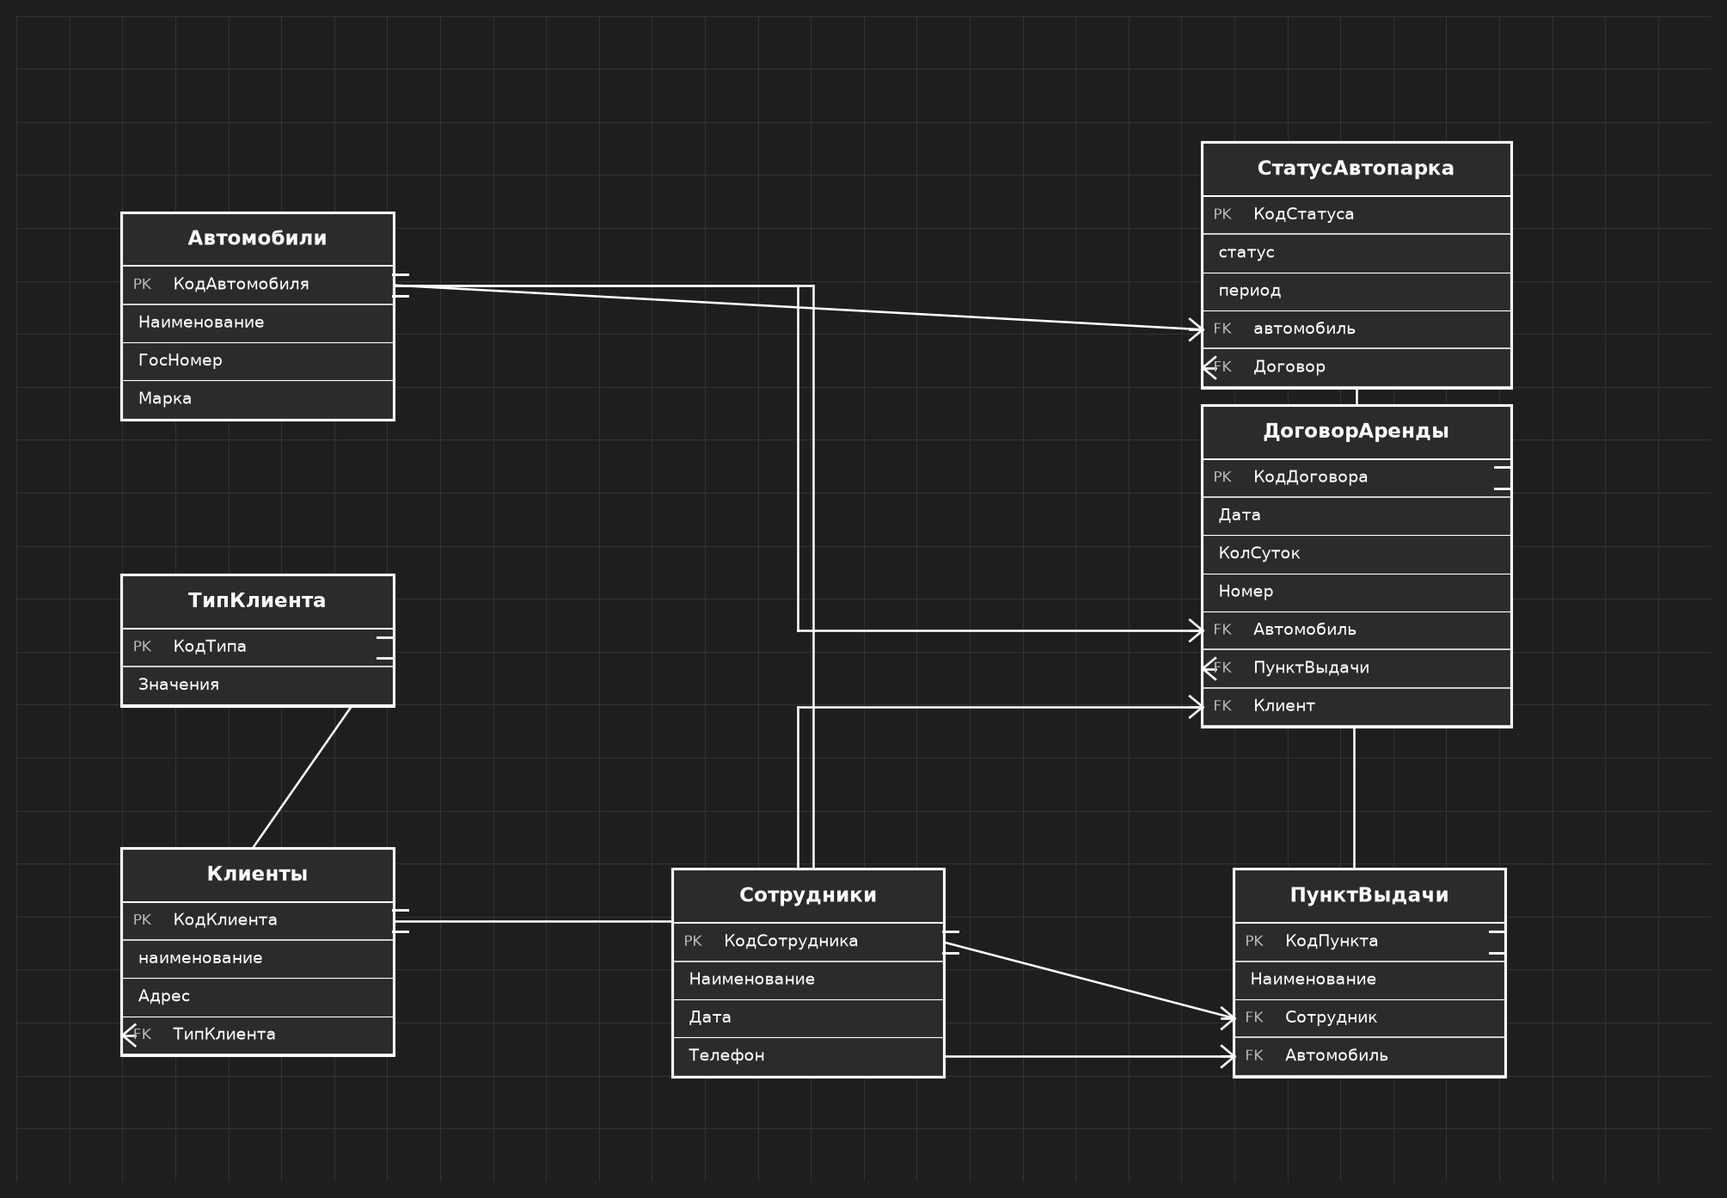
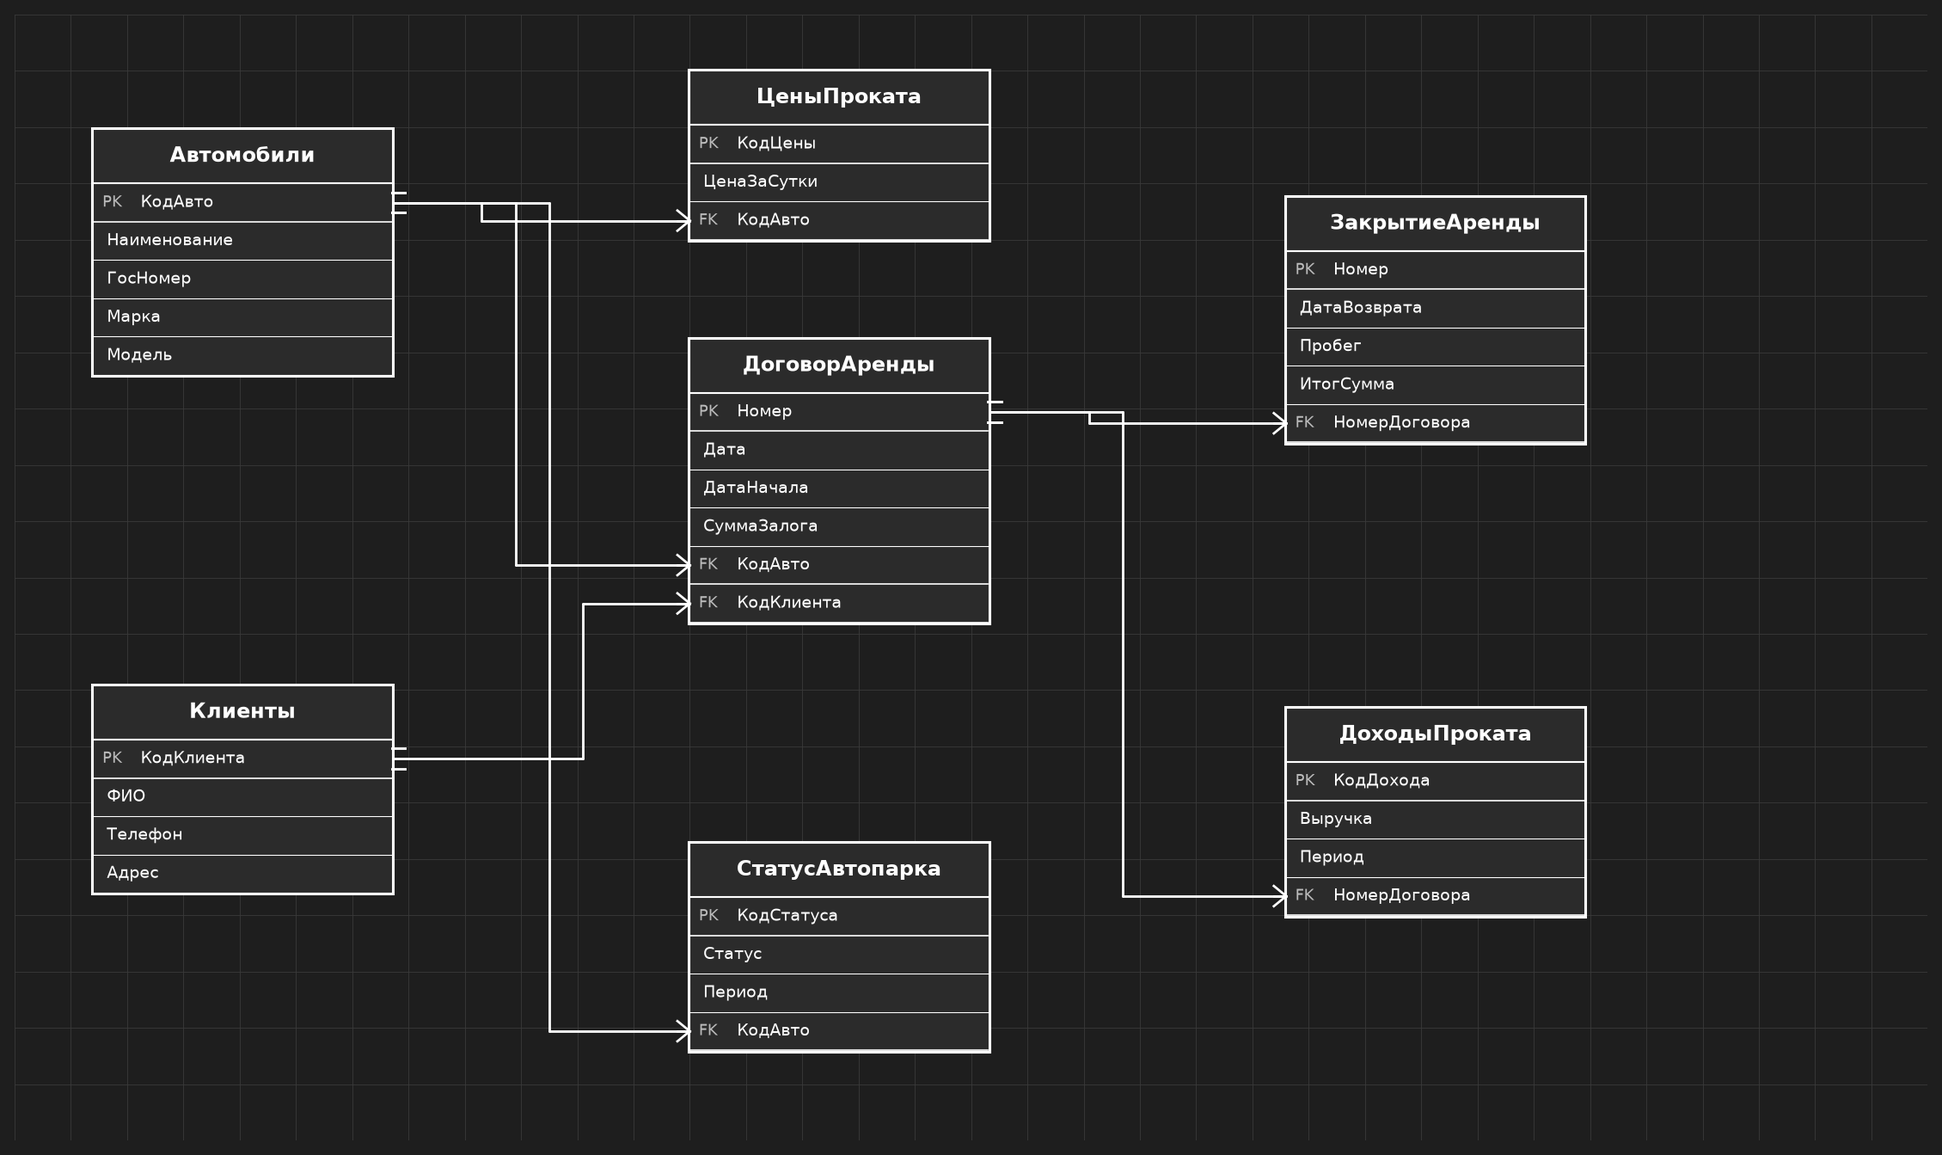
Переделать ER и Use Case: ортогональные связи PK→FK, шины акторов

diff --git a/diagrams/draw_diagrams.py b/diagrams/draw_diagrams.py
@@ -1,6 +1,6 @@
 #!/usr/bin/env python3
 # -*- coding: utf-8 -*-
-"""Аккуратные ER и Use Case: связи PK→FK, ортогональные линии."""
+"""Аккуратные ER и Use Case: связи строго PK→FK, ортогональные линии."""
 
 import matplotlib.pyplot as plt
 import matplotlib.patches as mpatches
@@ -16,8 +16,8 @@ BOX_FILL = '#2b2b2b'
 BOX_EDGE = '#ffffff'
 TEXT = '#ffffff'
 LINE = '#ffffff'
-ROW_H = 0.36
-HEADER_H = 0.5
+ROW_H = 0.34
+HEADER_H = 0.48
 
 
 def draw_grid(ax, xlim, ylim, step=0.5):
@@ -33,42 +33,40 @@ def draw_grid(ax, xlim, ylim, step=0.5):
 
 
 def er_table(ax, x, y, w, title, pk_name, attrs, fks):
-    """Таблица с точками привязки PK (справа) и каждого FK (слева)."""
-    rows = 1 + len(attrs) + len(fks)  # PK + attrs + FKs
+    rows = 1 + len(attrs) + len(fks)
     h = HEADER_H + rows * ROW_H
     ax.add_patch(FancyBboxPatch(
         (x, y), w, h, boxstyle='square,pad=0.01',
-        facecolor=BOX_FILL, edgecolor=BOX_EDGE, linewidth=1.4, zorder=2))
+        facecolor=BOX_FILL, edgecolor=BOX_EDGE, linewidth=1.3, zorder=2))
 
-    # заголовок
     ty = y + h - HEADER_H
     ax.plot([x, x + w], [ty, ty], color=BOX_EDGE, lw=0.9, zorder=3)
     ax.text(x + w / 2, ty + HEADER_H / 2, title, ha='center', va='center',
-            fontsize=10.5, color=TEXT, fontweight='bold', zorder=5)
+            fontsize=10, color=TEXT, fontweight='bold', zorder=5)
 
     cy = ty
-    pk_point = None
-
-    # PK
     cy -= ROW_H
     ax.plot([x, x + w], [cy, cy], color=BOX_EDGE, lw=0.7, zorder=3)
-    ax.text(x + 0.1, cy + ROW_H / 2, 'PK', ha='left', va='center', fontsize=7.5, color='#bbb', zorder=5)
-    ax.text(x + 0.48, cy + ROW_H / 2, pk_name, ha='left', va='center', fontsize=8.5, color=TEXT, zorder=5)
+    ax.text(x + 0.08, cy + ROW_H / 2, 'PK', ha='left', va='center',
+            fontsize=7.5, color='#bbbbbb', zorder=5)
+    ax.text(x + 0.42, cy + ROW_H / 2, pk_name, ha='left', va='center',
+            fontsize=8.2, color=TEXT, zorder=5)
     pk_point = (x + w, cy + ROW_H / 2)
 
-    # атрибуты
     for attr in attrs:
         cy -= ROW_H
-        ax.plot([x, x + w], [cy, cy], color=BOX_EDGE, lw=0.5, zorder=3)
-        ax.text(x + 0.15, cy + ROW_H / 2, attr, ha='left', va='center', fontsize=8.5, color=TEXT, zorder=5)
+        ax.plot([x, x + w], [cy, cy], color=BOX_EDGE, lw=0.45, zorder=3)
+        ax.text(x + 0.12, cy + ROW_H / 2, attr, ha='left', va='center',
+                fontsize=8.2, color=TEXT, zorder=5)
 
-    # FK
     fk_points = {}
     for fk in fks:
         cy -= ROW_H
         ax.plot([x, x + w], [cy, cy], color=BOX_EDGE, lw=0.7, zorder=3)
-        ax.text(x + 0.1, cy + ROW_H / 2, 'FK', ha='left', va='center', fontsize=7.5, color='#bbb', zorder=5)
-        ax.text(x + 0.48, cy + ROW_H / 2, fk, ha='left', va='center', fontsize=8.5, color=TEXT, zorder=5)
+        ax.text(x + 0.08, cy + ROW_H / 2, 'FK', ha='left', va='center',
+                fontsize=7.5, color='#bbbbbb', zorder=5)
+        ax.text(x + 0.42, cy + ROW_H / 2, fk, ha='left', va='center',
+                fontsize=8.2, color=TEXT, zorder=5)
         fk_points[fk] = (x, cy + ROW_H / 2)
 
     return {
@@ -83,164 +81,154 @@ def er_table(ax, x, y, w, title, pk_name, attrs, fks):
     }
 
 
+def _polyline(ax, pts, zorder=1):
+    for i in range(len(pts) - 1):
+        x1, y1 = pts[i]
+        x2, y2 = pts[i + 1]
+        ax.plot([x1, x2], [y1, y2], color=LINE, lw=1.2, zorder=zorder,
+                solid_capstyle='round')
+
+
 def tick_one(ax, point, direction='right'):
-    """Черточка «один» у PK."""
     x, y = point
-    d = 0.14 if direction == 'right' else -0.14
-    ax.plot([x, x + d], [y - 0.1, y - 0.1], color=LINE, lw=1.3, zorder=4)
-    ax.plot([x, x + d], [y + 0.1, y + 0.1], color=LINE, lw=1.3, zorder=4)
+    d = 0.12 if direction == 'right' else -0.12
+    ax.plot([x, x + d], [y - 0.09, y - 0.09], color=LINE, lw=1.2, zorder=4)
+    ax.plot([x, x + d], [y + 0.09, y + 0.09], color=LINE, lw=1.2, zorder=4)
 
 
 def crow_many(ax, point, direction='left'):
-    """Вилка «много» у FK."""
     x, y = point
-    if direction == 'left':
-        ax.plot([x, x - 0.12], [y, y + 0.1], color=LINE, lw=1.2, zorder=4)
-        ax.plot([x, x - 0.12], [y, y], color=LINE, lw=1.2, zorder=4)
-        ax.plot([x, x - 0.12], [y, y - 0.1], color=LINE, lw=1.2, zorder=4)
-    else:
-        ax.plot([x, x + 0.12], [y, y + 0.1], color=LINE, lw=1.2, zorder=4)
-        ax.plot([x, x + 0.12], [y, y], color=LINE, lw=1.2, zorder=4)
-        ax.plot([x, x + 0.12], [y, y - 0.1], color=LINE, lw=1.2, zorder=4)
+    d = -0.11 if direction == 'left' else 0.11
+    for dy in (0.09, 0.0, -0.09):
+        ax.plot([x, x + d], [y, y + dy], color=LINE, lw=1.15, zorder=4)
 
 
-def connect_pk_fk(ax, pk_point, fk_point, route='auto'):
-    """
-    Связь 1→M: от PK (родитель) к FK (потомок).
-    Ортогональная линия, видно начало и конец у ключей.
-    """
+def connect_pk_fk(ax, pk_point, fk_point, lane_x):
+    """Ортогональная связь 1→M: PK (справа) → полоса → FK (слева)."""
     x1, y1 = pk_point
     x2, y2 = fk_point
+    direction_pk = 'right' if x2 >= x1 else 'left'
+    direction_fk = 'left' if x2 >= x1 else 'right'
 
-    if route == 'auto':
-        route = 'hvh' if abs(y1 - y2) > 0.3 else 'h'
-
-    if route == 'h':
-        # горизонталь напрямую
-        ax.plot([x1, x2], [y1, y2], color=LINE, lw=1.15, zorder=1, solid_capstyle='round')
-    elif route == 'hvh':
-        mid = (x1 + x2) / 2
-        ax.plot([x1, mid], [y1, y1], color=LINE, lw=1.15, zorder=1)
-        ax.plot([mid, mid], [y1, y2], color=LINE, lw=1.15, zorder=1)
-        ax.plot([mid, x2], [y2, y2], color=LINE, lw=1.15, zorder=1)
-    elif route == 'vhv':
-        mid = (y1 + y2) / 2
-        ax.plot([x1, x1], [y1, mid], color=LINE, lw=1.15, zorder=1)
-        ax.plot([x1, x2], [mid, mid], color=LINE, lw=1.15, zorder=1)
-        ax.plot([x2, x2], [mid, y2], color=LINE, lw=1.15, zorder=1)
-
-    tick_one(ax, pk_point, 'right' if x2 > x1 else 'left')
-    crow_many(ax, fk_point, 'left' if x2 > x1 else 'right')
+    _polyline(ax, [(x1, y1), (lane_x, y1), (lane_x, y2), (x2, y2)])
+    tick_one(ax, pk_point, direction_pk)
+    crow_many(ax, fk_point, direction_fk)
 
 
 def build_er():
-    fig, ax = plt.subplots(figsize=(16, 11), dpi=160)
-    draw_grid(ax, (0, 16), (0, 11))
+    fig, ax = plt.subplots(figsize=(17, 10), dpi=170)
+    draw_grid(ax, (0, 17), (0, 10))
 
-    W = 2.55
+    W = 2.65
 
-    # --- размещение с запасом между таблицами ---
-    auto = er_table(ax, 1.0, 7.2, W, 'Автомобили', 'КодАвтомобиля',
-                    ['Наименование', 'ГосНомер', 'Марка'], [])
-    tip = er_table(ax, 1.0, 4.5, W, 'ТипКлиента', 'КодТипа', ['Значения'], [])
-    kl = er_table(ax, 1.0, 1.2, W, 'Клиенты', 'КодКлиента',
-                  ['наименование', 'Адрес'], ['ТипКлиента'])
-    sotr = er_table(ax, 6.2, 1.0, W, 'Сотрудники', 'КодСотрудника',
-                    ['Наименование', 'Дата', 'Телефон'], [])
-    punkt = er_table(ax, 11.5, 1.0, W, 'ПунктВыдачи', 'КодПункта',
-                     ['Наименование'], ['Сотрудник', 'Автомобиль'])
-    dog = er_table(ax, 11.2, 4.3, W + 0.35, 'ДоговорАренды', 'КодДоговора',
-                   ['Дата', 'КолСуток', 'Номер'],
-                   ['Автомобиль', 'ПунктВыдачи', 'Клиент'])
-    stat = er_table(ax, 11.2, 7.5, W + 0.35, 'СтатусАвтопарка', 'КодСтатуса',
-                    ['статус', 'период'], ['автомобиль', 'Договор'])
+    # Колонка 1 — справочники
+    auto = er_table(ax, 0.7, 6.8, W, 'Автомобили', 'КодАвто',
+                    ['Наименование', 'ГосНомер', 'Марка', 'Модель'], [])
+    klient = er_table(ax, 0.7, 2.2, W, 'Клиенты', 'КодКлиента',
+                      ['ФИО', 'Телефон', 'Адрес'], [])
 
-    # --- связи строго PK → FK ---
-    connect_pk_fk(ax, tip['pk'], kl['fk']['ТипКлиента'], 'h')
+    # Колонка 2 — зависимые сущности
+    ceny = er_table(ax, 6.0, 8.0, W, 'ЦеныПроката', 'КодЦены',
+                    ['ЦенаЗаСутки'], ['КодАвто'])
+    dogovor = er_table(ax, 6.0, 4.6, W, 'ДоговорАренды', 'Номер',
+                       ['Дата', 'ДатаНачала', 'СуммаЗалога'],
+                       ['КодАвто', 'КодКлиента'])
+    status = er_table(ax, 6.0, 0.8, W, 'СтатусАвтопарка', 'КодСтатуса',
+                      ['Статус', 'Период'], ['КодАвто'])
 
-    connect_pk_fk(ax, kl['pk'], dog['fk']['Клиент'], 'hvh')
+    # Колонка 3 — документы и отчёты
+    zakrytie = er_table(ax, 11.3, 6.2, W, 'ЗакрытиеАренды', 'Номер',
+                        ['ДатаВозврата', 'Пробег', 'ИтогСумма'],
+                        ['НомерДоговора'])
+    dohody = er_table(ax, 11.3, 2.0, W, 'ДоходыПроката', 'КодДохода',
+                      ['Выручка', 'Период'], ['НомерДоговора'])
 
-    connect_pk_fk(ax, auto['pk'], dog['fk']['Автомобиль'], 'hvh')
+    # Полосы маршрутизации (между колонками — без пересечений)
+    lane_c1_c2_a = 4.15   # Автомобили → Цены
+    lane_c1_c2_b = 4.45   # Автомобили → Договор
+    lane_c1_c2_c = 4.75   # Автомобили → Статус
+    lane_c1_c2_d = 5.05   # Клиенты → Договор
+    lane_c2_c3_a = 9.55   # Договор → Закрытие
+    lane_c2_c3_b = 9.85   # Договор → Доходы
 
-    connect_pk_fk(ax, auto['pk'], punkt['fk']['Автомобиль'], 'hvh')
+    connect_pk_fk(ax, auto['pk'], ceny['fk']['КодАвто'], lane_c1_c2_a)
+    connect_pk_fk(ax, auto['pk'], dogovor['fk']['КодАвто'], lane_c1_c2_b)
+    connect_pk_fk(ax, auto['pk'], status['fk']['КодАвто'], lane_c1_c2_c)
+    connect_pk_fk(ax, klient['pk'], dogovor['fk']['КодКлиента'], lane_c1_c2_d)
+    connect_pk_fk(ax, dogovor['pk'], zakrytie['fk']['НомерДоговора'], lane_c2_c3_a)
+    connect_pk_fk(ax, dogovor['pk'], dohody['fk']['НомерДоговора'], lane_c2_c3_b)
 
-    connect_pk_fk(ax, auto['pk'], stat['fk']['автомобиль'], 'h')
-
-    connect_pk_fk(ax, sotr['pk'], punkt['fk']['Сотрудник'], 'h')
-
-    connect_pk_fk(ax, punkt['pk'], dog['fk']['ПунктВыдачи'], 'hvh')
-
-    connect_pk_fk(ax, dog['pk'], stat['fk']['Договор'], 'hvh')
-
-    fig.savefig(OUT_ER, facecolor=BG, bbox_inches='tight', pad_inches=0.12)
+    fig.savefig(OUT_ER, facecolor=BG, bbox_inches='tight', pad_inches=0.1)
     plt.close(fig)
     print('ER OK')
 
 
 # ---------- USE CASE ----------
 
-def uc_ellipse(ax, cx, cy, text, w=1.22, h=0.72, fs=7.2):
+def uc_ellipse(ax, cx, cy, text, w=1.18, h=0.68, fs=7.0):
     ax.add_patch(mpatches.Ellipse(
-        (cx, cy), w, h, facecolor=BOX_FILL, edgecolor=BOX_EDGE, linewidth=1.1, zorder=3))
-    ax.text(cx, cy, text, ha='center', va='center', fontsize=fs, color=TEXT, zorder=4)
-    return {'cx': cx, 'cy': cy, 'w': w, 'h': h,
-            'left': cx - w/2, 'right': cx + w/2, 'top': cy + h/2, 'bottom': cy - h/2}
+        (cx, cy), w, h, facecolor=BOX_FILL, edgecolor=BOX_EDGE,
+        linewidth=1.1, zorder=3))
+    ax.text(cx, cy, text, ha='center', va='center', fontsize=fs,
+            color=TEXT, zorder=4, linespacing=1.05)
+    return {
+        'cx': cx, 'cy': cy, 'w': w, 'h': h,
+        'left': cx - w / 2, 'right': cx + w / 2,
+        'top': cy + h / 2, 'bottom': cy - h / 2,
+    }
 
 
 def uc_actor(ax, x, y, label, side='left'):
-    """Актор: stick figure."""
-    r = 0.18
+    r = 0.17
     ax.add_patch(plt.Circle((x, y), r, fill=False, edgecolor=LINE, lw=1.1, zorder=5))
-    foot_y = y - 0.85
-    ax.plot([x, x], [y - r, y - 0.5], color=LINE, lw=1.1, zorder=5)
-    ax.plot([x - 0.22, x + 0.22], [y - 0.32, y - 0.32], color=LINE, lw=1.1, zorder=5)
-    ax.plot([x, x - 0.18], [y - 0.5, foot_y], color=LINE, lw=1.1, zorder=5)
-    ax.plot([x, x + 0.18], [y - 0.5, foot_y], color=LINE, lw=1.1, zorder=5)
-    ax.text(x, foot_y - 0.22, label, ha='center', va='top', fontsize=8.5, color=TEXT, zorder=5)
-    if side == 'left':
-        return {'anchor': (x + 0.25, y - 0.35), 'side': 'left'}
-    return {'anchor': (x - 0.25, y - 0.35), 'side': 'right'}
+    foot_y = y - 0.82
+    ax.plot([x, x], [y - r, y - 0.48], color=LINE, lw=1.1, zorder=5)
+    ax.plot([x - 0.2, x + 0.2], [y - 0.3, y - 0.3], color=LINE, lw=1.1, zorder=5)
+    ax.plot([x, x - 0.17], [y - 0.48, foot_y], color=LINE, lw=1.1, zorder=5)
+    ax.plot([x, x + 0.17], [y - 0.48, foot_y], color=LINE, lw=1.1, zorder=5)
+    ax.text(x, foot_y - 0.2, label, ha='center', va='top', fontsize=8.2,
+            color=TEXT, zorder=5)
+    anchor = (x + 0.22, y - 0.32) if side == 'left' else (x - 0.22, y - 0.32)
+    return {'anchor': anchor, 'side': side, 'x': x, 'y': y}
 
 
-def link_actor_uc(ax, actor, uc, dashed=False):
-    """Аккуратная связь: актор → край овала (ближайшая точка)."""
+def link_actor_bus(ax, actor, ucs, side='left', dashed=False):
+    """Шина: актор → вертикаль → короткие горизонтали к каждому варианту."""
     ax0, ay0 = actor['anchor']
-    cx, cy = uc['cx'], uc['cy']
-    side = actor['side']
+    ls = '--' if dashed else '-'
+    lw = 1.0
 
     if side == 'left':
-        tx = uc['left']
-        ty = max(uc['bottom'], min(uc['top'], ay0))
-        mid_x = (ax0 + tx) / 2
-        ls = '--' if dashed else '-'
-        ax.plot([ax0, mid_x], [ay0, ay0], color=LINE, lw=0.95, ls=ls, zorder=1)
-        ax.plot([mid_x, mid_x], [ay0, ty], color=LINE, lw=0.95, ls=ls, zorder=1)
-        ax.plot([mid_x, tx], [ty, ty], color=LINE, lw=0.95, ls=ls, zorder=1)
+        bus_x = min(max(uc['left'] for uc in ucs) - 0.55, ax0 + 0.9)
+        ax.plot([ax0, bus_x], [ay0, ay0], color=LINE, lw=lw, ls=ls, zorder=1)
+        ys = [uc['cy'] for uc in ucs]
+        ax.plot([bus_x, bus_x], [min(ys), max(ys)], color=LINE, lw=lw, ls=ls, zorder=1)
+        for uc in ucs:
+            ax.plot([bus_x, uc['left']], [uc['cy'], uc['cy']],
+                    color=LINE, lw=lw, ls=ls, zorder=1)
     else:
-        tx = uc['right']
-        ty = max(uc['bottom'], min(uc['top'], ay0))
-        mid_x = (ax0 + tx) / 2
-        ls = '--' if dashed else '-'
-        ax.plot([ax0, mid_x], [ay0, ay0], color=LINE, lw=0.95, ls=ls, zorder=1)
-        ax.plot([mid_x, mid_x], [ay0, ty], color=LINE, lw=0.95, ls=ls, zorder=1)
-        ax.plot([mid_x, tx], [ty, ty], color=LINE, lw=0.95, ls=ls, zorder=1)
+        bus_x = max(min(uc['right'] for uc in ucs) + 0.55, ax0 - 0.9)
+        ax.plot([ax0, bus_x], [ay0, ay0], color=LINE, lw=lw, ls=ls, zorder=1)
+        ys = [uc['cy'] for uc in ucs]
+        ax.plot([bus_x, bus_x], [min(ys), max(ys)], color=LINE, lw=lw, ls=ls, zorder=1)
+        for uc in ucs:
+            ax.plot([bus_x, uc['right']], [uc['cy'], uc['cy']],
+                    color=LINE, lw=lw, ls=ls, zorder=1)
 
 
 def build_use_case():
     fig, ax = plt.subplots(figsize=(9, 9), dpi=180)
     draw_grid(ax, (0, 9), (0, 9))
 
-    # рамка системы
-    bx, by, bw, bh = 2.0, 1.5, 5.0, 5.5
+    bx, by, bw, bh = 2.15, 1.55, 4.7, 5.35
     ax.add_patch(FancyBboxPatch(
         (bx, by), bw, bh, boxstyle='square,pad=0.02',
-        facecolor='none', edgecolor=BOX_EDGE, linewidth=1.8, zorder=2))
-    ax.text(bx + bw / 2, by + bh + 0.28, 'ИС учёта аренды автомобилей',
+        facecolor='none', edgecolor=BOX_EDGE, linewidth=1.7, zorder=2))
+    ax.text(bx + bw / 2, by + bh + 0.25, 'ИС учёта аренды автомобилей',
             ha='center', va='bottom', fontsize=10, color=TEXT, fontweight='bold')
 
-    # 3 ряда × 3 овала — ровная сетка
-    xs = [2.85, 4.5, 6.15]
-    ys = [5.6, 4.1, 2.6]
+    xs = [2.95, 4.5, 6.05]
+    ys = [5.65, 4.15, 2.65]
     labels = [
         ['Управление\nпользователями', 'Управление\nправами', 'Ведение\nсправочников'],
         ['Регистрация\nклиента', 'Оформление\nдоговора\nаренды', 'Закрытие\nаренды'],
@@ -253,20 +241,15 @@ def build_use_case():
             row_uc.append(uc_ellipse(ax, x, y, labels[row][col]))
         ucs.append(row_uc)
 
-    admin = uc_actor(ax, 0.75, 6.8, 'Администратор', 'left')
-    mgr = uc_actor(ax, 0.75, 4.1, 'Менеджер', 'left')
-    director = uc_actor(ax, 8.25, 4.1, 'Директор', 'right')
-    client = uc_actor(ax, 8.25, 2.6, 'Клиент', 'right')
+    admin = uc_actor(ax, 0.65, 6.75, 'Администратор', 'left')
+    mgr = uc_actor(ax, 0.65, 4.15, 'Менеджер', 'left')
+    director = uc_actor(ax, 8.35, 3.65, 'Директор', 'right')
+    client = uc_actor(ax, 8.35, 2.65, 'Клиент', 'right')
 
-    for uc in ucs[0]:
-        link_actor_uc(ax, admin, uc)
-    for uc in ucs[1]:
-        link_actor_uc(ax, mgr, uc)
-    for uc in ucs[2][:1]:
-        link_actor_uc(ax, mgr, uc)
-    for uc in ucs[2][1:]:
-        link_actor_uc(ax, director, uc)
-    link_actor_uc(ax, client, ucs[1][1], dashed=True)
+    link_actor_bus(ax, admin, ucs[0], 'left')
+    link_actor_bus(ax, mgr, ucs[1] + [ucs[2][0]], 'left')
+    link_actor_bus(ax, director, ucs[2][1:], 'right')
+    link_actor_bus(ax, client, [ucs[1][1], ucs[1][2]], 'right', dashed=True)
 
     fig.savefig(OUT_UC, facecolor=BG, bbox_inches='tight', pad_inches=0.08)
     plt.close(fig)

diff --git a/diagrams/README.md b/diagrams/README.md
@@ -26,7 +26,13 @@
 
 ## Пересоздать PNG (если нужно изменить)
 
+**ER и Use Case (аккуратные PK→FK, тёмная сетка):**
+```bash
+python3 diagrams/draw_diagrams.py
+```
+
+**Остальные (Mermaid):**
 ```bash
 cd diagrams
-npx mmdc -i 01_use_case.mmd -o 01_use_case.png -b white -w 1400
+npx mmdc -i 02_sequence.mmd -o 02_sequence.png -b white -w 1400
 ```
